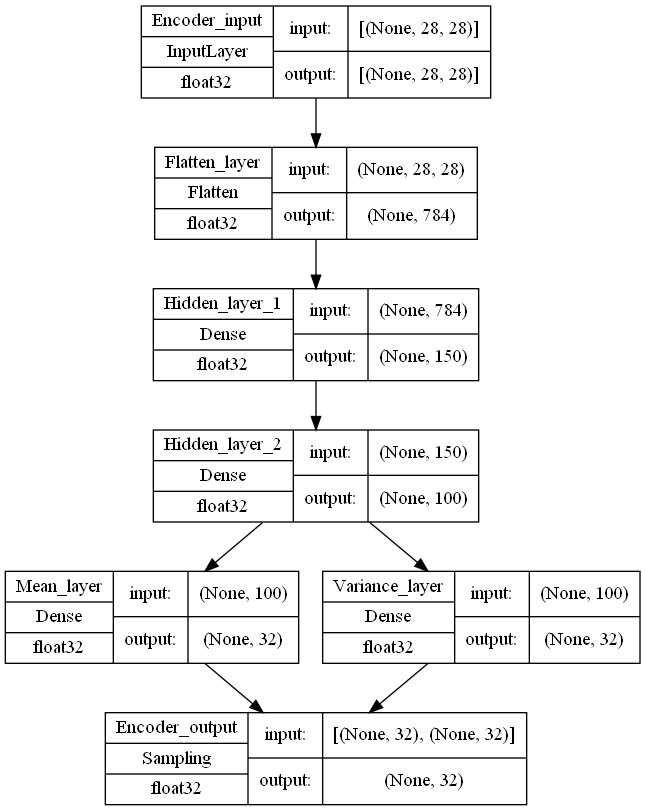
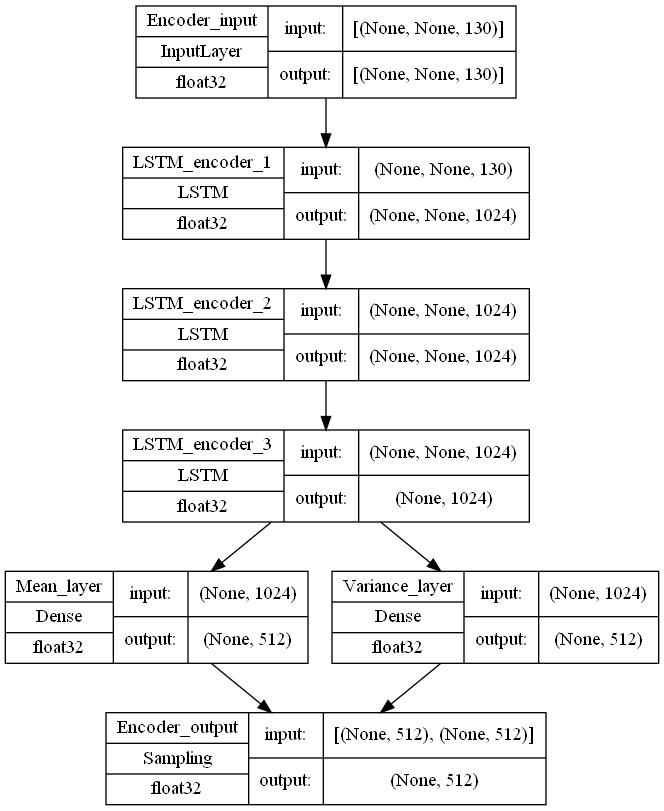
Fininshed pipline dataset procedure. Check and tune the VAE model

diff --git a/Source/Pipeline.py b/Source/Pipeline.py
@@ -1,0 +1,132 @@
+import tensorflow as tf
+from tensorflow import summary
+from tensorflow import keras
+from tensorflow import data
+from keras import datasets
+from keras import models
+from keras import layers
+from keras import utils
+from keras import callbacks
+from keras import optimizers
+from keras import backend
+
+from sklearn.manifold import TSNE
+
+import pandas as pd
+import matplotlib.pyplot as plt
+import numpy as np
+import os
+import re
+
+import Config
+import Preprocess
+
+curmin = -127
+curmax = 210
+metadata_normalized = {}
+metadata_pianoroll = Preprocess.openJSONFile("Dataset\Samples\link.json")
+bucket_samples = {} #Store and determine the bucket for samples with different length. The key is number of timestep stored in pianoroll, value is id of bucket to put pinaroll into.
+bucket_bound = [x for x in range (1, 900)]
+bucket_size = [Config.batch_size] * 900
+
+idPianoroll = 0
+
+def atoi(text):
+    return int(text) if text.isdigit() else text
+
+def natural_keys(text):
+    '''
+    alist.sort(key=natural_keys) sorts in human order
+    http://nedbatchelder.com/blog/200712/human_sorting.html
+    (See Toothy's implementation in the comments)
+    '''
+    return [ atoi(c) for c in re.split(r'(\d+)', text) ]
+
+def getLabel(fileName):
+    '''
+    Return the number describe the label of the pianoroll, prepare for converting to one-hot vector
+    '''
+    num, ext = os.path.splitext(fileName)
+    normalized = metadata_normalized[ metadata_pianoroll[num] ]
+    bigCag = Config.big_cag[ normalized["style"] ]
+    smallCag = Config.small_cag[ bigCag ][ normalized["emotion"] ]
+
+    return smallCag
+
+def loadJSONNormalized(path):
+
+    for root, dirs, files in os.walk(path):
+        for filename in files:
+
+            num, ext = os.path.splitext(filename)
+            if ext == '.json':
+                metadata_normalized[num] = Preprocess.openJSONFile(os.path.join(root, filename))
+
+def loadFileGenerator():
+    '''
+    Load the pianoroll samples from hard disk drive and transfering them to the dataset. This function is a generator.
+    '''
+    path = "Dataset/Samples/Pianorolls"
+
+    for root, dirs, files in os.walk(path):
+        for filename in sorted(files, key = natural_keys):
+            print(filename)
+
+            sample = np.load(os.path.join(path, filename) )
+            oneHot = utils.to_categorical( getLabel(filename), 8, dtype = "uint8" )
+
+            yield sample, oneHot
+
+def lengthSample(pianoroll):
+    '''
+    Find the length of the sample, so that we can put it in the suitable bucket using for further batching process
+    '''
+    global bucket_samples
+
+    l = int(tf.shape( pianoroll )[0])
+
+    if l not in bucket_samples:
+        print("hey")
+        bucket_samples[l] = len(bucket_samples)
+
+    return bucket_samples[l]
+
+#In case need using lots of tracing protocol, use the function signatures instead
+@tf.function
+def MinMaxScalerTransform(array, min, max, range):
+
+    return tf.divide(array - min, max - min) * (range[1] - range[0]) + range[0]
+
+@tf.function
+def normalizedPianoroll(pianoroll, onehot):
+    '''
+    Scale the pinaoroll value to range [-1, 1]
+    '''
+
+    print("Tracing ________")
+
+    melody = tf.cast( MinMaxScalerTransform(pianoroll[::, ::, 0 : 128], -127, 127, (-1, 1) ), tf.float16)
+    beat = tf.cast(pianoroll[::, ::, 128 : 129], tf.float16)
+    tempo = tf.cast( MinMaxScalerTransform(pianoroll[::, ::, 129 :], 0, 210, (-1, 1) ), tf.float16)
+
+    return tf.concat([melody, beat, tempo], 2), onehot
+
+loadJSONNormalized("Dataset\Dataset_normalized")
+
+#Load pianorolls from disk
+dataset = tf.data.Dataset.from_generator(loadFileGenerator, output_signature = (tf.TensorSpec(shape = (None, 130), dtype = tf.int16), tf.TensorSpec(shape = (8, ), dtype = tf.uint8) ) )
+
+#Create batches divided by length of the pianorolls
+dataset = dataset.bucket_by_sequence_length(lambda pianoroll, onehot: tf.py_function(lengthSample, inp = [pianoroll], Tout = tf.int32), bucket_boundaries = bucket_bound, bucket_batch_sizes = bucket_size)
+
+#Normalized pianorolls value to [-1, 1] range
+dataset = dataset.map(lambda pianoroll, onehot: normalizedPianoroll(pianoroll, onehot), num_parallel_calls = tf.data.AUTOTUNE)
+
+#Cache dataset
+dataset = dataset.cache("Dataset\\Cached\\test")
+
+#Prefetch dataset
+dataset = dataset.prefetch(tf.data.AUTOTUNE)
+
+for data in dataset:
+    print(data)

diff --git a/Source/CVAE.py b/Source/CVAE.py
@@ -19,7 +19,6 @@ import numpy as np
 import os
 
 import Config
-import Pipline
 
 def get_run_logdir():
     import time
@@ -48,16 +47,15 @@ def construct_Encoder():
 
     depth = Config.encoder_param["depth"]
 
-    input_encoder = layers.Input( (None, Config.num_row), name = "Encoder_input")
+    input_encoder = layers.Input( (None, Config.num_feature), name = "Encoder_input")
 
     x = input_encoder
     for i in range(depth - 1):
         x = layers.LSTM(Config.encoder_param["num_hidden_node"], return_sequences = True, name = f"LSTM_encoder_{i + 1}")(x)
 
     end_LSTM = layers.LSTM(Config.encoder_param["num_hidden_node"], name = f"LSTM_encoder_{depth}")(x)
-    dense = layers.Dense(Config.num_type, activation = "ReLU", name = "Dense_encoder_1")(end_LSTM)
-    coding_mean = layers.Dense(Config.coding_size, name = "Mean_layer")(dense)
-    coding_log_var = layers.Dense(Config.coding_size, name = "Variance_layer")(dense)
+    coding_mean = layers.Dense(Config.coding_size, name = "Mean_layer")(end_LSTM)
+    coding_log_var = layers.Dense(Config.coding_size, name = "Variance_layer")(end_LSTM)
     output_encoder = Sampling(name = "Encoder_output")([coding_mean, coding_log_var])
     Encoder = models.Model(input_encoder, outputs = [coding_mean, coding_log_var, output_encoder], name = "Encoder")
 
@@ -69,16 +67,15 @@ def construct_Encoder():
 def construct_Decoder():
 
     input_decoder = layers.Input( (Config.coding_size + Config.num_type, ), name = "Decoder_input")
-    input_timestep = layers.Input( (None, Config.num_row), name = "Decoder_input_num_timestep")
-    dense = layers.Dense(Config.coding_size + Config.num_type, activation = "tanh", name = "Dense_decoder_1")(input_decoder)
-    repeat_layer = RepeatTime()([dense, input_timestep])
+    input_timestep = layers.Input( (None, Config.num_feature), name = "Decoder_input_num_timestep")
+    repeat_layer = RepeatTime()([input_decoder, input_timestep])
     x = repeat_layer
 
     depth = Config.decoder_param["depth"]
     for i in range(depth):
         x = layers.LSTM(Config.decoder_param["num_hidden_node"], return_sequences = True, name = f"LSTM_decoder_{i + 1}")(x)
     
-    output_decoder = layers.TimeDistributed( layers.Dense(Config.num_row, activation = "sigmoid", name = "Decoder_output"))(x)
+    output_decoder = layers.TimeDistributed( layers.Dense(Config.num_feature, activation = "tanh", name = "Decoder_output"))(x)
 
     Decoder = models.Model([input_decoder, input_timestep], output_decoder, name = "Decoder")
 
@@ -105,6 +102,7 @@ def construct_VAE(usingKL = True):
     latent_loss = -0.5 * backend.sum( 1 + coding_log_var - backend.exp(coding_log_var) - backend.square(coding_mean), axis = -1 )
     if usingKL:
         VAE.add_loss( backend.mean(latent_loss) / 784 )
+
     VAE.compile(loss = "binary_crossentropy", optimizer = optimizers.Adam(learning_rate = 0.0002) )
 
     return VAE

diff --git a/Source/Preprocess.py b/Source/Preprocess.py
@@ -367,14 +367,14 @@ def createSamples(pianoroll: np.ndarray, num_bar, path, id):
     while i + num_bar < numBar:
         start = listTimeFirstBeat[i].time
         end = listTimeFirstBeat[i + num_bar].time
-        sample = pianoroll[start : end - 1, ::]
-        np.save(path + '\\' + str(id_sample) + '.npy', sample)
+        sample = pianoroll[start : end, ::]
+        np.save(path + '\\Pianorolls\\' + str(id_sample) + '.npy', sample)
         dic.update( {str(id_sample): id_str} )
         id_sample += 1
         i += 1
 
     sample = pianoroll[ listTimeFirstBeat[i].time :, ::]
-    np.save(path + '\\' + str(id_sample) + '.npy', sample)
+    np.save(path + '\\Pianorolls\\' + str(id_sample) + '.npy', sample)
     dic.update( {str(id_sample): id_str} )
     id_sample += 1
 
@@ -387,7 +387,7 @@ if __name__ == "__main__":
     writeJSONFile('Dataset\Samples\link.json', {})
     createSamples(np.load('Dataset\Dataset_normalized\\1.npy'), 2, 'Dataset\Samples', 1)
 
-    pianoroll = np.load("Dataset\Dataset_normalized\\13.npy")
+    pianoroll = np.load("Dataset\Samples\Pianorolls\\265.npy")
     score = muspy.from_pianoroll_representation(pianoroll)
     score.tempos = inferListTimeTempo(pianoroll)
     inferKey(score)

diff --git a/Source/CAAE.py b/Source/CAAE.py
@@ -23,7 +23,7 @@ from tqdm import tqdm
 import os
 
 import Config
-import Pipline
+import Pipeline
 
 def construct_Discriminator():
 
@@ -104,10 +104,7 @@ def train_AAE():
     utils.plot_model(CAAE, show_shapes = True, show_dtype = True, to_file = "CAAE.png")
 
     #Number of batch in each epoch
-    dataset = Pipline.pianoroll_reader_dataset("Dataset\Samples\*.npy")
-    print(dataset)
-    print(dataset[0])
-    print(dataset[1])
+    dataset = Pipeline.pianoroll_reader_dataset("Dataset\Samples\*.npy")
 
     for epoch in range(Config.num_epoch):
 

diff --git a/Source/Config.py b/Source/Config.py
@@ -106,7 +106,7 @@ coding_size = 512
 num_type = 8
 batch_size = 32
 num_epoch = 100
-num_row = 130
+num_feature = 130
 
 root_logdir = os.path.join(os.curdir, "my_logs")
 
